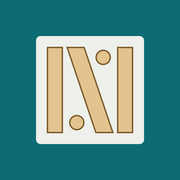
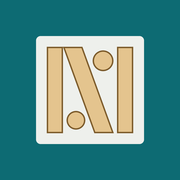
Icône : première barre et diagonale d'une seule pièce — version 1.0.2
Claude-Session: https://claude.ai/code/session_01AmLjCgWrav5f2Pdvvzoxwj

Changed region(s): [[0.4444, 0.25, 0.6389, 0.7222], [0.3333, 0.25, 0.5556, 0.75]]

diff --git a/app.js b/app.js
@@ -1,7 +1,7 @@
 /* Nestor — Copyright (C) 2026 Macr0b — AGPL-3.0-or-later (voir LICENSE). */
 /* Nestor — application installable.
    À chaque nouvelle version, changer APP_VERSION ici ET VERSION dans sw.js. */
-var APP_VERSION = "1.0.1";
+var APP_VERSION = "1.0.2";
 
 (function(){
   "use strict";

diff --git a/sw.js b/sw.js
@@ -1,6 +1,6 @@
 /* Service worker : fonctionnement hors ligne et mises à jour.
    À chaque nouvelle version, changer VERSION ci-dessous ET dans app.js. */
-const VERSION = "1.0.1";
+const VERSION = "1.0.2";
 const CACHE = "nestor-" + VERSION;
 const FILES = [
   "./",

diff --git a/LISEZMOI.md b/LISEZMOI.md
@@ -3,7 +3,7 @@
 Imbrication de pièces DXF, SVG et AI sur des panneaux, avec export SVG et DXF.
 Fonctionne hors connexion, en 45 langues, sur Mac, Windows, Linux, iPhone, iPad et Android.
 
-Version : 1.0.1
+Version : 1.0.2
 
 ## 1. Mettre l'application en ligne (une seule fois)
 
